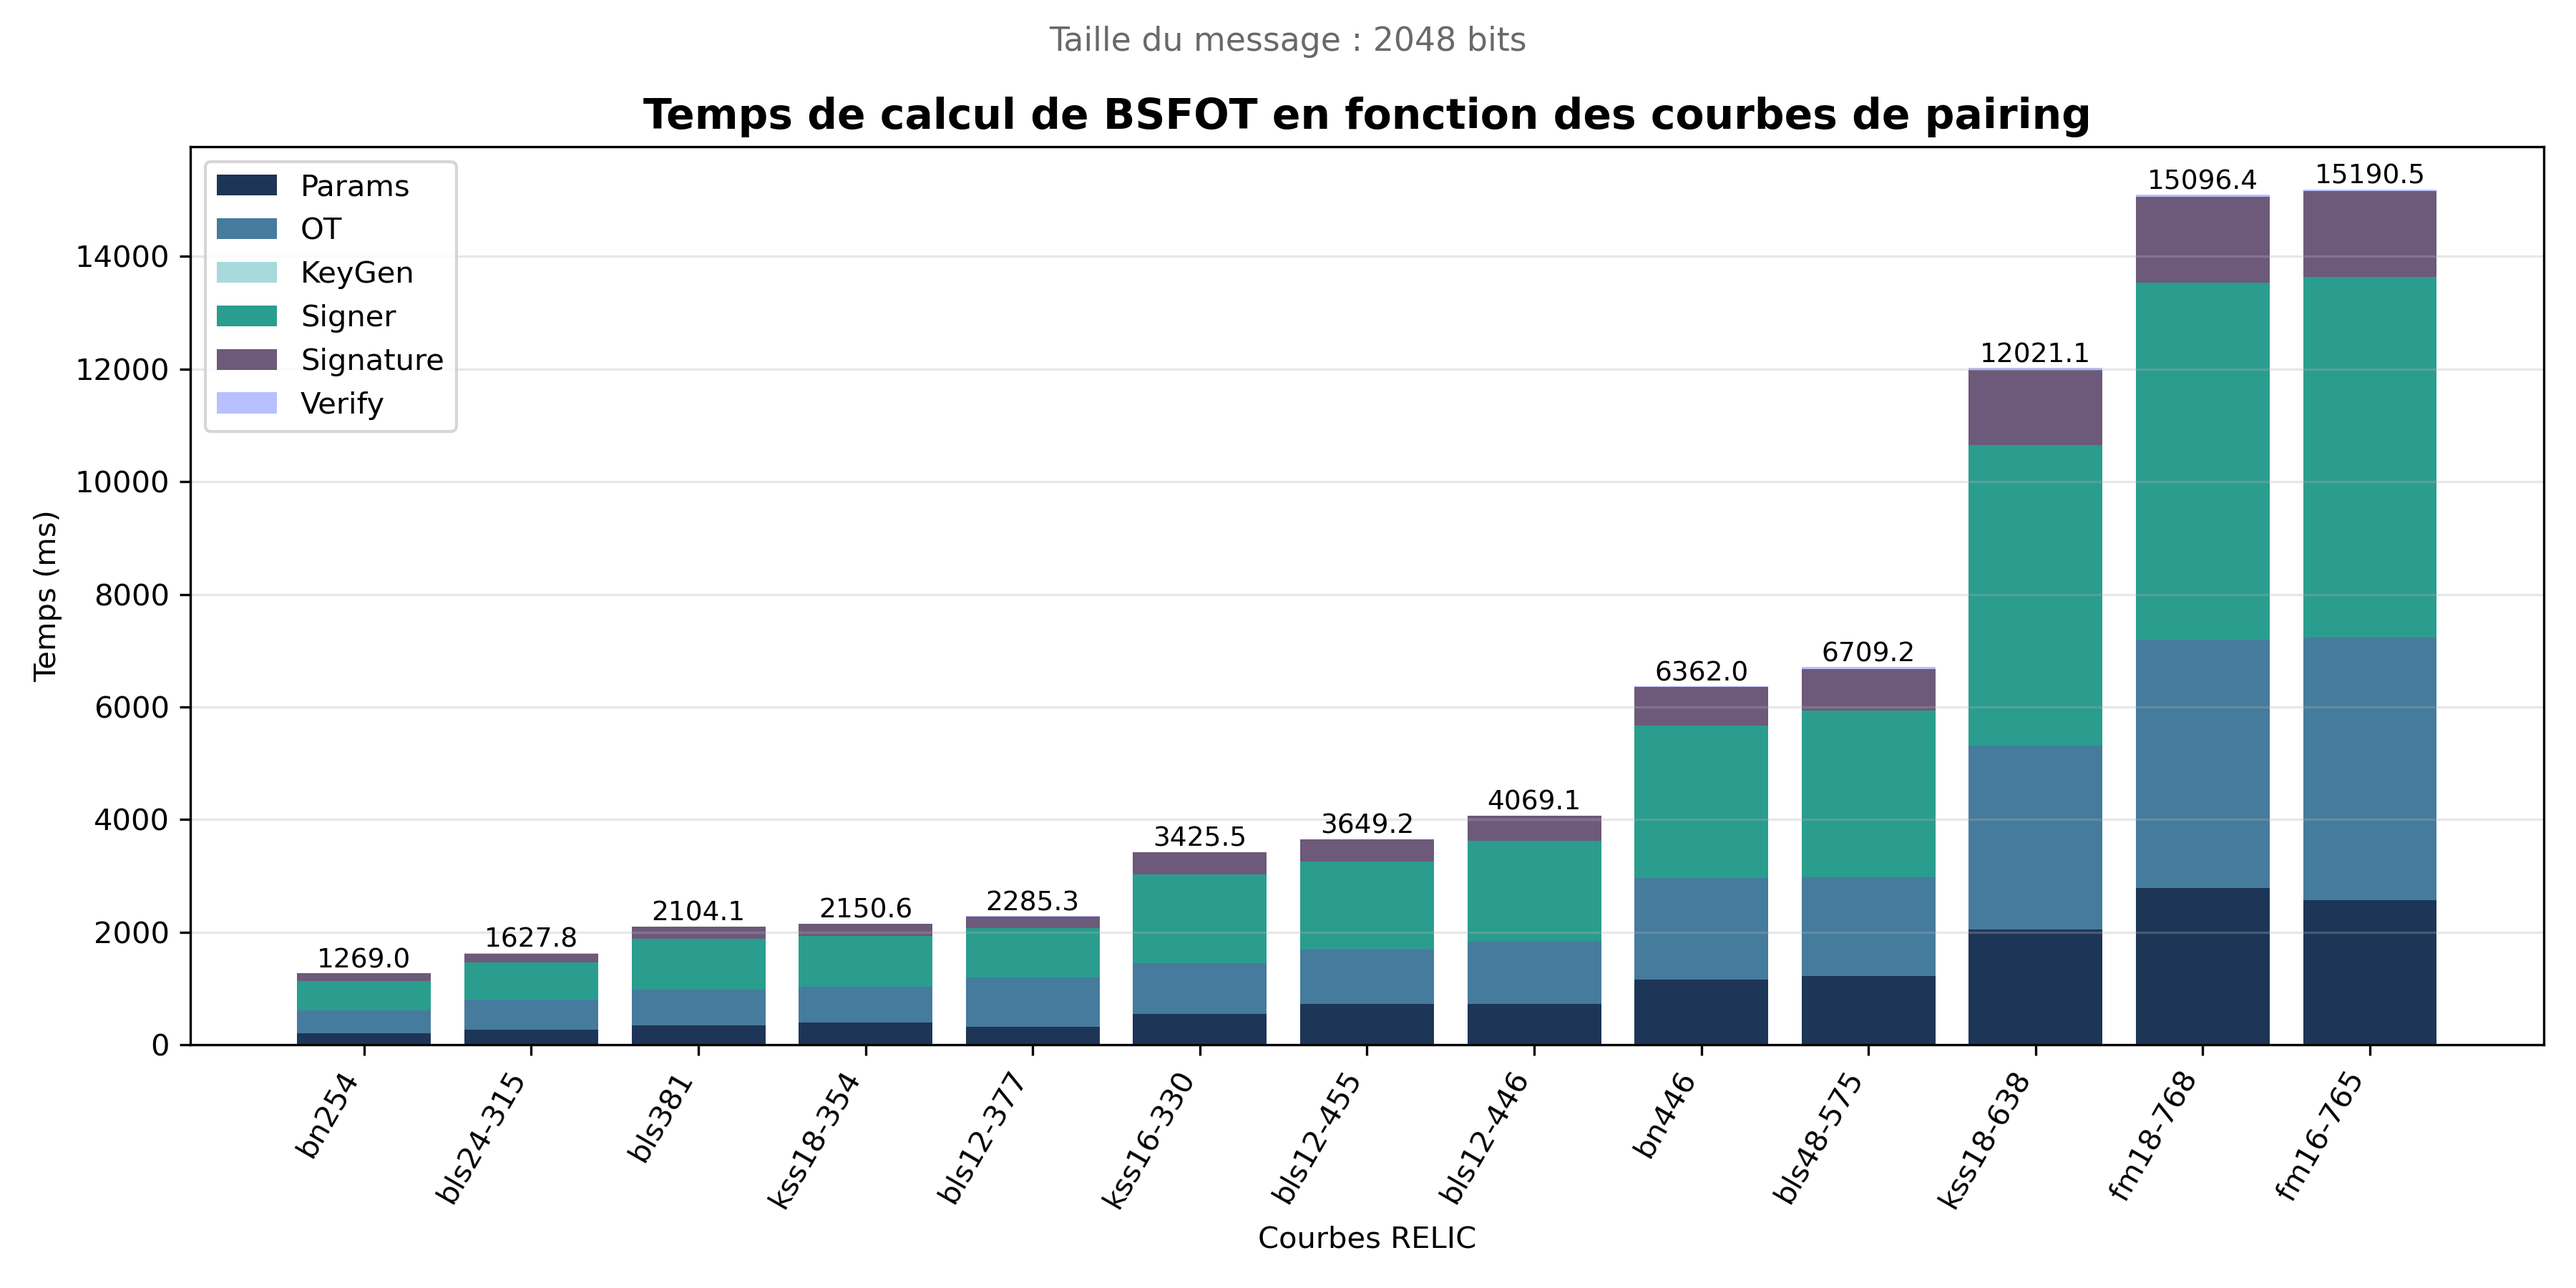
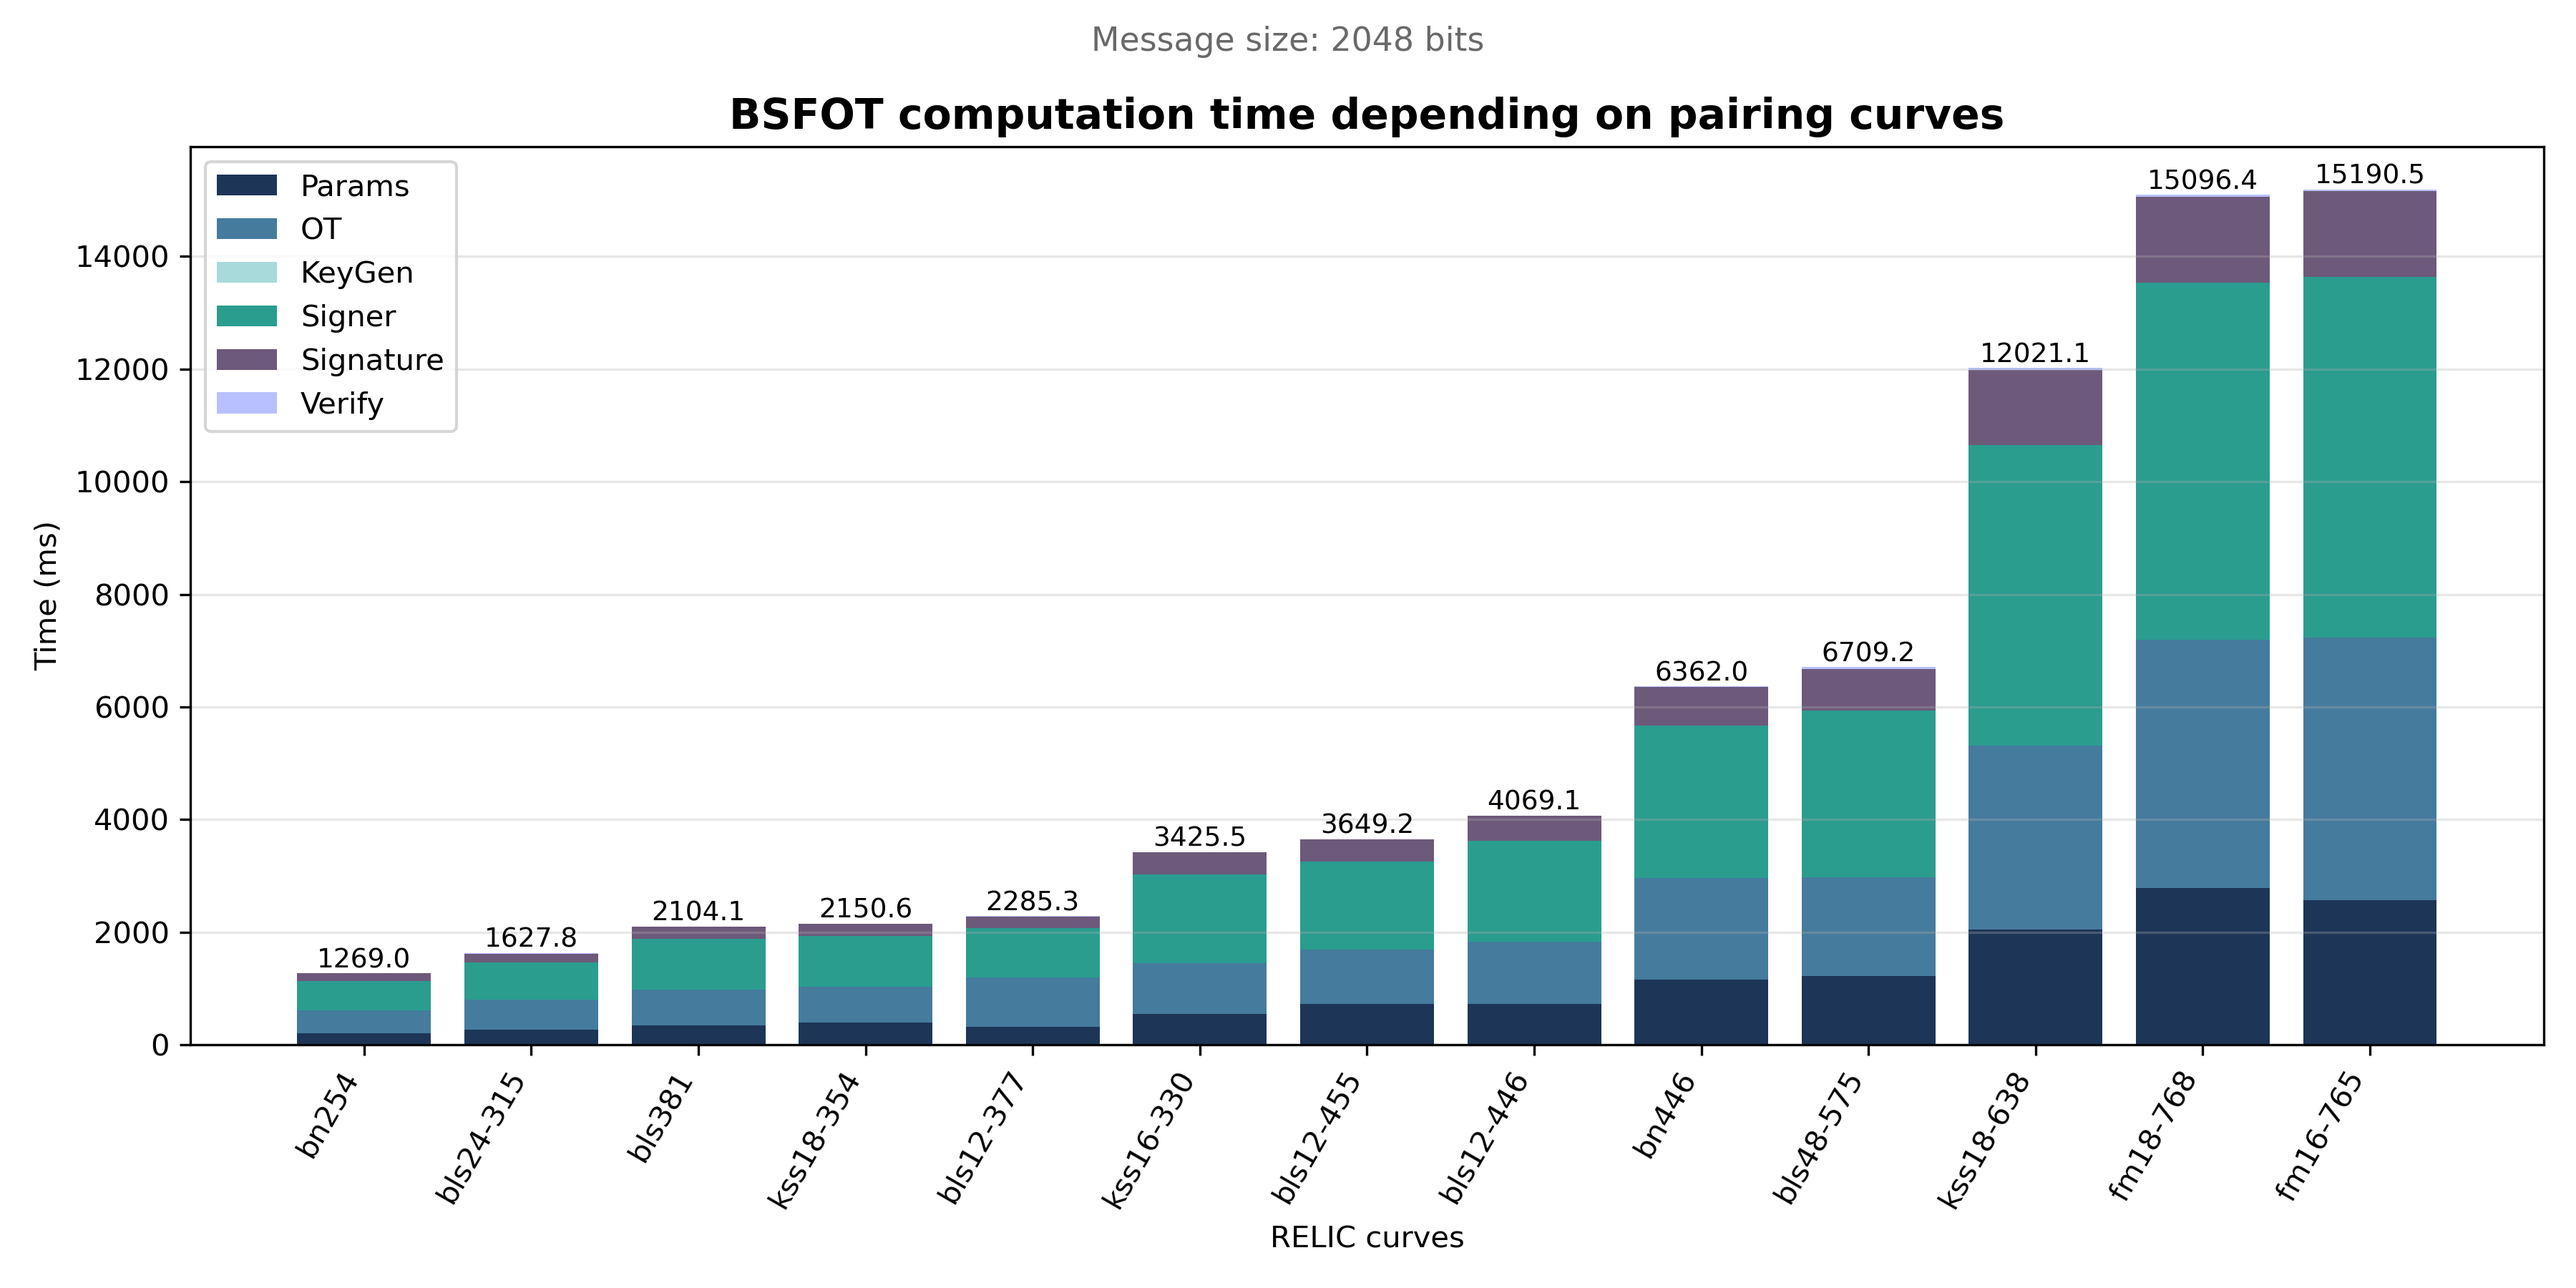
graph -> english

Changed region(s): [[0.2489, 0.0, 0.8089, 0.1244], [0.0, 0.4044, 0.0311, 0.5289], [0.4978, 0.9333, 0.56, 0.9644]]

diff --git a/bsfot/display.py b/bsfot/display.py
@@ -128,18 +128,19 @@ def plot_breakdown(results):
             fontsize=9
         )
 
-    plt.ylabel("Temps (ms)")
-    plt.xlabel("Courbes RELIC")
     message_bits = next(iter(results.values())).get("Message", "?")
 
+    plt.ylabel("Time (ms)")
+    plt.xlabel("RELIC curves")
+
     plt.title(
-        "Temps de calcul de BSFOT en fonction des courbes de pairing",
+        "BSFOT computation time depending on pairing curves",
         fontsize=14,
         fontweight="bold"
     )
 
     plt.suptitle(
-        f"Taille du message : {message_bits} bits",
+        f"Message size: {message_bits} bits",
         fontsize=11,
         color="dimgray"
     )
